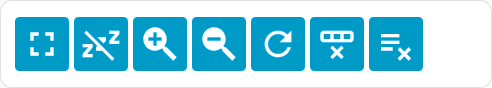
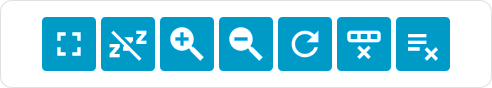
Update documentation for new layout option

Changed region(s): [[0.0305, 0.1818, 0.9146, 0.8182]]

diff --git a/browser-control-card.js b/browser-control-card.js
@@ -475,7 +475,7 @@ class BrowserControlCard extends HTMLElement {
           case "controls":
             return "Select the controls to display. Some controls may be hidden if your current browser does not support the feature.";
           case "layout":
-            return "Configure controls layout inside the card"
+            return "Configure controls alignment and spacing inside the card"
         }
         return undefined;
       },

diff --git a/README.md b/README.md
@@ -1,49 +1,57 @@
 # Browser Control card
-[![hacs_badge](https://img.shields.io/badge/integrated%20in-HACS-%2303a9f4.svg?style=flat-square&logo=homeassistant&logoColor=white)](https://hacs.xyz/) ![hacs_badge](https://img.shields.io/github/languages/top/mathoudebine/homeassistant-browser-control-card?style=flat-square) ![hacs_badge](https://img.shields.io/github/license/mathoudebine/homeassistant-browser-control-card?style=flat-square) ![hacs_badge](https://img.shields.io/github/issues/mathoudebine/homeassistant-browser-control-card?style=flat-square) 
 
-* [Available browser controls](#available-browser-controls)
-  * [What is my browser?](#what-is-my-browser)
-* [Install the card](#install-the-card)
-  * [Using HACS (recommended)](#using-hacs-recommended)
-  * [Manual install](#manual-install)
+[![hacs_badge](https://img.shields.io/badge/integrated%20in-HACS-%2303a9f4.svg?style=flat-square&logo=homeassistant&logoColor=white)](https://hacs.xyz/) ![hacs_badge](https://img.shields.io/github/languages/top/mathoudebine/homeassistant-browser-control-card?style=flat-square) ![hacs_badge](https://img.shields.io/github/license/mathoudebine/homeassistant-browser-control-card?style=flat-square) ![hacs_badge](https://img.shields.io/github/issues/mathoudebine/homeassistant-browser-control-card?style=flat-square)
 
-Based on [KTibow/fullscreen-card](https://github.com/KTibow/fullscreen-card) for card design and full screen  
-Wake lock part from https://web.dev/wake-lock/
+Control your web browser from a [Home Assistant dashboard card](https://www.home-assistant.io/dashboards/cards/): full screen, disable screen lock, zoom...
 
-![Browser Control card](https://raw.githubusercontent.com/mathoudebine/homeassistant-browser-control-card/master/resources/browser-control-card.png)
+![Browser Control card](resources/browser-control-card.png)
 
-Control your browser from a Home Assistant lovelace card: full screen, disable screen lock, zoom...  
-This card is intended for:
+This card is compatible with all web browsers and is particularly useful for:
+
 * mobile devices
 * devices with "locked" browser (browser in kiosk mode, without user menu/commands...) like the Facebook/Meta Portal
 
-Also available: show/hide HomeAssistant navigation bar & sidebar  
-Changes are not persisted: just reload the page to revert to initial settings
+HomeAssistant controls also available: show/hide navigation bar & sidebar  
+Changes are not persisted: reload the page to revert to initial settings
 
-## Available browser controls
-| Icon                                                                                                                                                                                                                                                     | Control                                                   | Config. option                | Availability                                                                                                                                                                                                    |
-|----------------------------------------------------------------------------------------------------------------------------------------------------------------------------------------------------------------------------------------------------------|-----------------------------------------------------------|-------------------------------|-----------------------------------------------------------------------------------------------------------------------------------------------------------------------------------------------------------------|
-| ![Full-screen](https://raw.githubusercontent.com/mathoudebine/homeassistant-browser-control-card/master/resources/fullscreen.png)                                                                                                                        | Enter / exit full-screen                                  | `controls: [fullscreen]` | [![check_browser_support](https://img.shields.io/badge/check-browser%20support-%2339b54a.svg?style=flat-square&logo=googlechrome&logoColor=white)](https://caniuse.com/mdn-api_element_requestfullscreen)       |
-| ![Wake lock](https://raw.githubusercontent.com/mathoudebine/homeassistant-browser-control-card/master/resources/wake_mode.png)                                                                                                                           | Enable / disable screen wake lock (keep screen always on) | `controls: [wakelock]` | [![check_browser_support](https://img.shields.io/badge/check-browser%20support-%2339b54a.svg?style=flat-square&logo=googlechrome&logoColor=white)](https://caniuse.com/wake-lock)                               |
-| ![Zoom In](https://raw.githubusercontent.com/mathoudebine/homeassistant-browser-control-card/master/resources/zoom_in.png) ![Zoom out](https://raw.githubusercontent.com/mathoudebine/homeassistant-browser-control-card/master//resources/zoom_out.png) | Zoom in / zoom out (using CSS)                            | `controls: [zoom]`       | [![check_browser_support](https://img.shields.io/badge/check-browser%20support-%2339b54a.svg?style=flat-square&logo=googlechrome&logoColor=white)](https://caniuse.com/css-zoom)                                |
-| ![Reload](https://raw.githubusercontent.com/mathoudebine/homeassistant-browser-control-card/master/resources/reload.png)                                                                                                                                 | Reload page                                               | `controls: [reload]`    | [![check_browser_support](https://img.shields.io/badge/check-browser%20support-%2339b54a.svg?style=flat-square&logo=googlechrome&logoColor=white)](https://caniuse.com/mdn-api_location_reload)                 |
-| ![Hide navigation bar](https://raw.githubusercontent.com/mathoudebine/homeassistant-browser-control-card/master/resources/hide_navbar.png)                                                                                                               | Hide navigation bar                                       | `controls: [navbar]`     | [![check_browser_support](https://img.shields.io/badge/check-browser%20support-%2339b54a.svg?style=flat-square&logo=googlechrome&logoColor=white)](https://caniuse.com/mdn-api_cssstyledeclaration_setproperty) |
-| ![Hide sidebar](https://raw.githubusercontent.com/mathoudebine/homeassistant-browser-control-card/master/resources/hide_sidebar.png)                                                                                                                     | Hide sidebar                                              | `controls: [sidebar]`    | [![check_browser_support](https://img.shields.io/badge/check-browser%20support-%2339b54a.svg?style=flat-square&logo=googlechrome&logoColor=white)](https://caniuse.com/mdn-api_cssstyledeclaration_setproperty) |
-
+## Available controls
 
 > [!NOTE]
-> Some features may be disabled if your browser does not support them  
+> Some controls may be hidden if your browser does not support them
+
+| Icon                                                                   | Control                                                   | Config. option           | Availability                                                                                                                                                                                                    |
+|------------------------------------------------------------------------|-----------------------------------------------------------|--------------------------|-----------------------------------------------------------------------------------------------------------------------------------------------------------------------------------------------------------------|
+| ![Full-screen](resources/fullscreen.png)                               | Enter / exit full-screen                                  | `controls: [fullscreen]` | [![check_browser_support](https://img.shields.io/badge/check-browser%20support-%2339b54a.svg?style=flat-square&logo=googlechrome&logoColor=white)](https://caniuse.com/mdn-api_element_requestfullscreen)       |
+| ![Wake lock](resources/wake_mode.png)                                  | Enable / disable screen wake lock (keep screen always on) | `controls: [wakelock]`   | [![check_browser_support](https://img.shields.io/badge/check-browser%20support-%2339b54a.svg?style=flat-square&logo=googlechrome&logoColor=white)](https://caniuse.com/wake-lock)                               |
+| ![Zoom In](resources/zoom_in.png) ![Zoom out](/resources/zoom_out.png) | Zoom in / zoom out (using CSS)                            | `controls: [zoom]`       | [![check_browser_support](https://img.shields.io/badge/check-browser%20support-%2339b54a.svg?style=flat-square&logo=googlechrome&logoColor=white)](https://caniuse.com/css-zoom)                                |
+| ![Reload](resources/reload.png)                                        | Reload page                                               | `controls: [reload]`     | [![check_browser_support](https://img.shields.io/badge/check-browser%20support-%2339b54a.svg?style=flat-square&logo=googlechrome&logoColor=white)](https://caniuse.com/mdn-api_location_reload)                 |
+| ![Hide navigation bar](resources/hide_navbar.png)                      | Hide navigation bar                                       | `controls: [navbar]`     | [![check_browser_support](https://img.shields.io/badge/check-browser%20support-%2339b54a.svg?style=flat-square&logo=googlechrome&logoColor=white)](https://caniuse.com/mdn-api_cssstyledeclaration_setproperty) |
+| ![Hide sidebar](resources/hide_sidebar.png)                            | Hide sidebar                                              | `controls: [sidebar]`    | [![check_browser_support](https://img.shields.io/badge/check-browser%20support-%2339b54a.svg?style=flat-square&logo=googlechrome&logoColor=white)](https://caniuse.com/mdn-api_cssstyledeclaration_setproperty) |
 
 ### What is my browser?
-If you cannot identify the browser your device is using, browse the following website https://www.whatsmyua.info/  
+
+If you cannot identify the browser your device is using, browse the following website <https://www.whatsmyua.info/>  
 Search the result for a string like `Chrome/92.0`
 
-## Card configuration
-The card supports configuration through Home Assistant UI:
+## Styling options
 
-![Configuration UI](https://raw.githubusercontent.com/mathoudebine/homeassistant-browser-control-card/master/resources/card_configuration_ui.png)
+* **Layout**: buttons horizontal alignment and spacing. Select between `center` (default), `space-around`, `left` and `right`
+
+| ![Centered layout](resources/layout-center.png) | ![Centered layout](resources/layout-space-around.png) |
+|-------------------------------------------------|-------------------------------------------------------|
+| `center` layout                                 | `space-around` layout                                 |
+
+* **No Padding**: remove space between buttons and card border
+* **Small buttons** (button size is based on theme font size)
+
+## Card configuration
+
+The card can be configured directly from Home Assistant UI:
+
+![Configuration UI](resources/card_configuration_ui.png)
 
 YAML configuration is also supported:
+
 ```yaml
 type: custom:browser-control-card
 controls:
@@ -55,21 +63,29 @@ controls:
   - sidebar
 no_padding: false
 small_buttons: false
+layout: center
 ```
 
 > [!NOTE]
-> Old configuration keys beginning with `hide_` are still supported but will be ignored as soon as you configure the card using graphical editor.
+> Old configuration keys beginning with `hide_` are still supported but will be ignored as soon as the card is configured using UI.
 
 ## Install the card
+
 ### Using HACS (recommended)
-1. Make sure [HACS](https://hacs.xyz/) is installed.  
-2. Go to HACS > Frontend > Explore & download repositories  
-3. Search and install "Browser Control Card" that appeared in your Frontend tab  
-4. Add the card to your dashboard  
+
+1. Make sure [HACS](https://hacs.xyz/) is installed.
+2. On HACS interface, search and install "Browser Control Card"
+3. Add the card to your dashboard and configure it
 
 ### Manual install
+
 1. Copy `browser-control-card.js` from this repository to your HomeAssistant configuration folder `config/www/`  
-2. Go to HomeAssistant configuration page > Dashboards > Resources tab
+2. Go to HomeAssistant configuration page > Dashboards > Three-dots "Resources" option in upper-right corner
 3. Add resource `/local/browser-control-card.js` (Resource type: JavaScript module)
-4. Reload the web UI by flushing cache (Ctrl + F5)
-5. Add the card to your dashboard
+4. Reload the HomeAssistant UI by flushing cache (Ctrl + F5)
+5. Add the card to your dashboard and configure it
+
+## Sources
+
+Based on [KTibow/fullscreen-card](https://github.com/KTibow/fullscreen-card) for card design and full screen  
+Wake lock part from <https://web.dev/wakelock>
